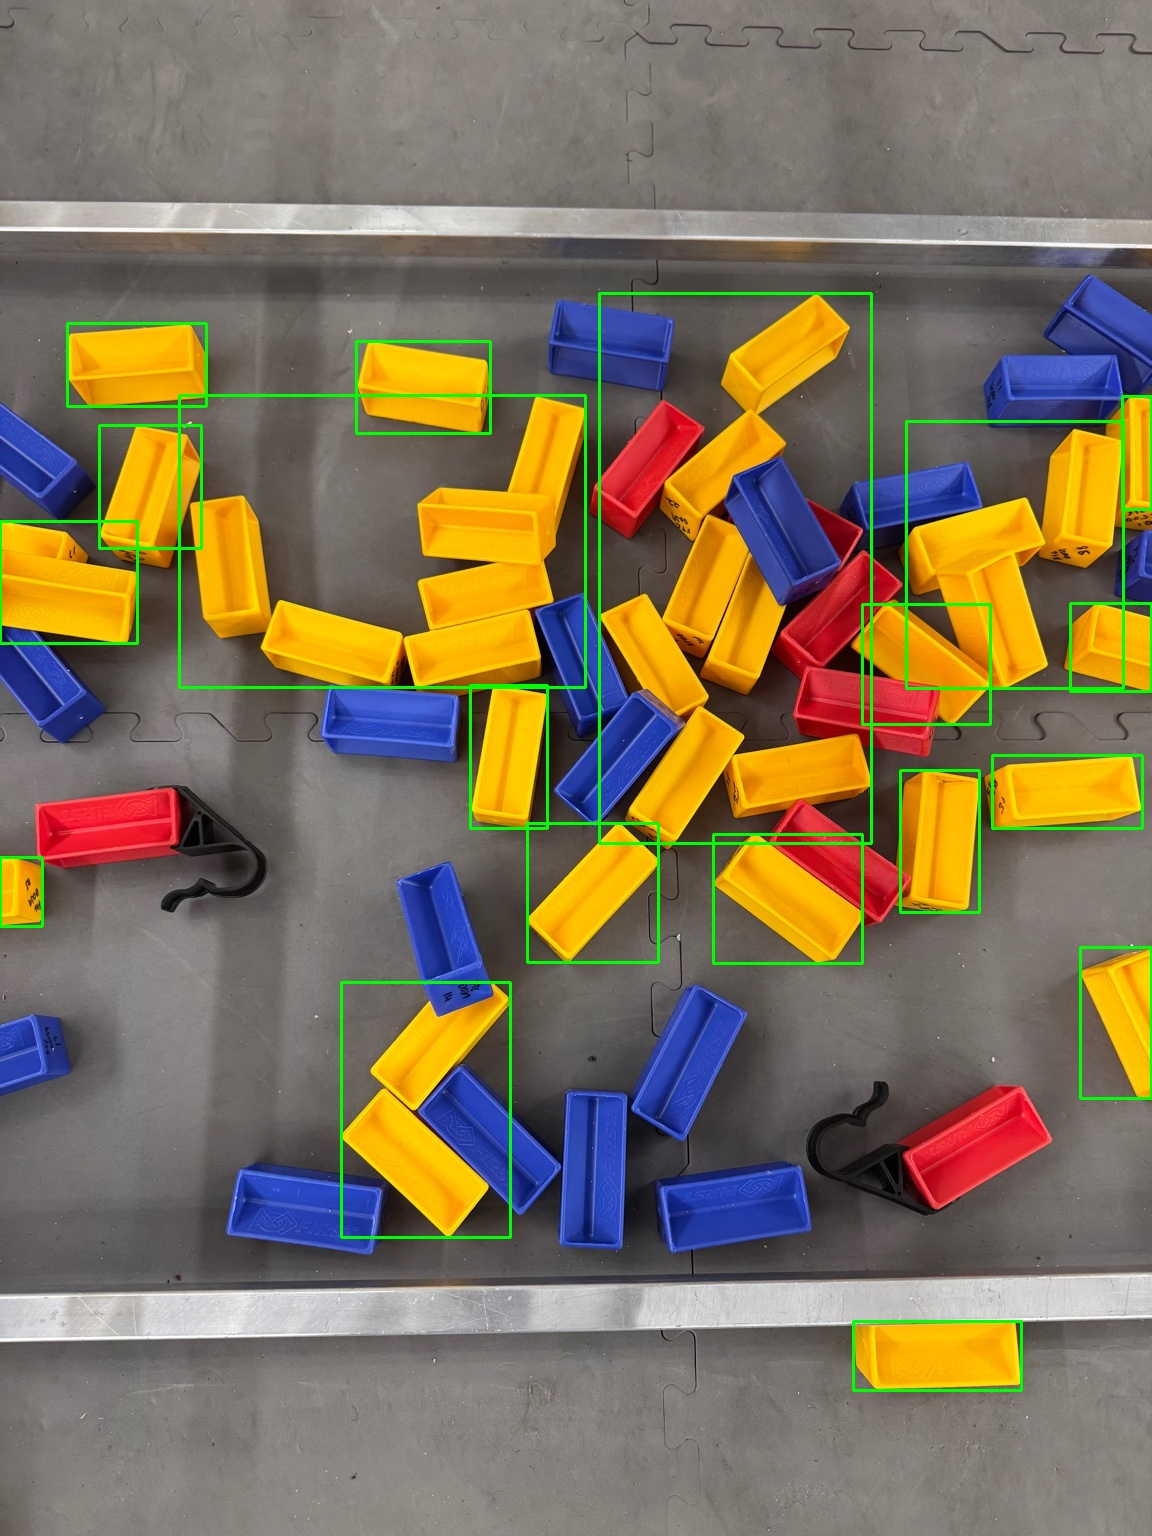
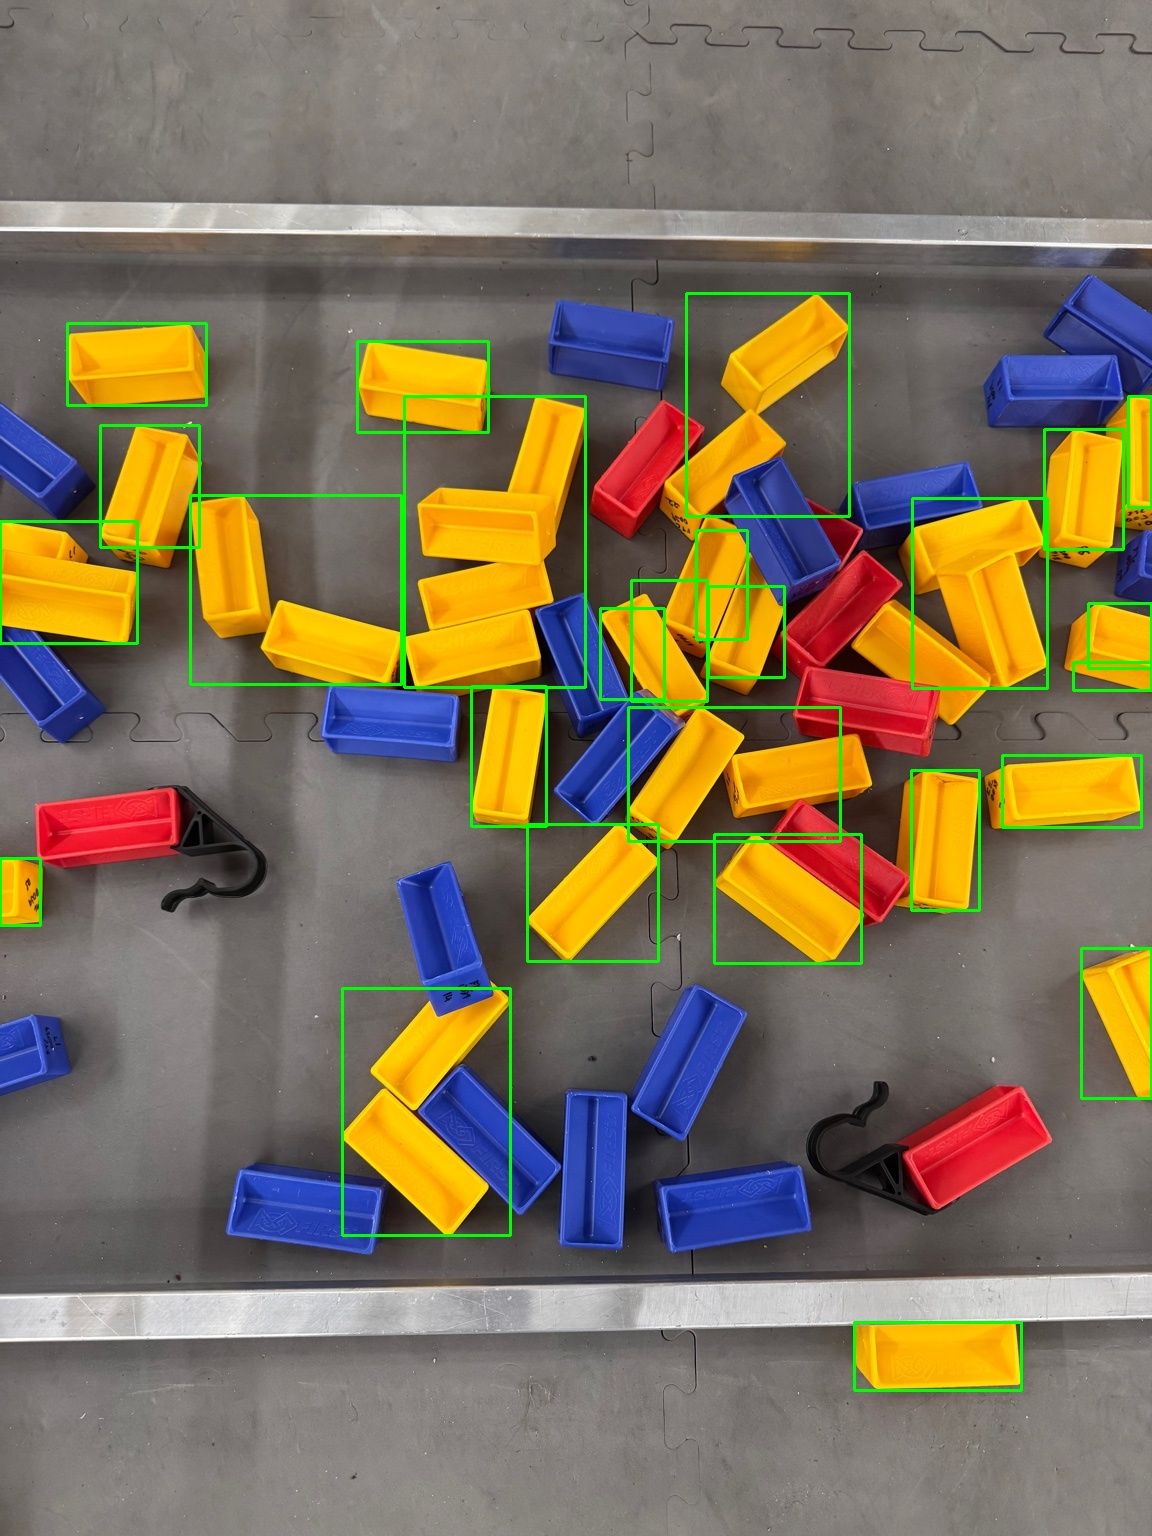
Block detection V2

diff --git a/demo/src/main/java/com/example/block/YellowBlockClusterDetector.java b/demo/src/main/java/com/example/block/YellowBlockClusterDetector.java
@@ -16,39 +16,35 @@ import org.opencv.imgproc.Imgproc;
 public class YellowBlockClusterDetector {
 
     // Constants for yellow color range in HSV
-    private static final Scalar LOWER_YELLOW = new Scalar(20, 100, 100); // Adjust as needed
-    private static final Scalar UPPER_YELLOW = new Scalar(30, 255, 255); // Adjust as needed
+    private static final Scalar LOWER_YELLOW = new Scalar(20, 100, 100);
+    private static final Scalar UPPER_YELLOW = new Scalar(30, 255, 255);
 
-    // Minimum area threshold for filtering small contours
     private static final double MIN_CLUSTER_AREA = 500.0;
     private static final double MIN_BLOCK_AREA = 100.0;
 
     /**
-     * Method to detect yellow blocks in clusters from an image.
+     * Detect yellow blocks in clusters from an image.
      *
-     * @param imagePath Path to the input image.
+     * @param imagePath  Path to the input image.
      * @param outputPath Path to save the annotated output image.
      */
     public void detectYellowBlocks(String imagePath, String outputPath) {
-        // Load the input image
         Mat inputImage = Imgcodecs.imread(imagePath);
         if (inputImage.empty()) {
             throw new RuntimeException("Image could not be loaded.");
         }
 
-        // Convert the image to HSV color space
         Mat hsvImage = new Mat();
         Imgproc.cvtColor(inputImage, hsvImage, Imgproc.COLOR_BGR2HSV);
 
-        // Create a binary mask for yellow color
         Mat yellowMask = new Mat();
         Core.inRange(hsvImage, LOWER_YELLOW, UPPER_YELLOW, yellowMask);
 
-        // Apply morphological operations to clean up noise
+        // Improved morphological operations
         Mat kernel = Imgproc.getStructuringElement(Imgproc.MORPH_RECT, new Size(5, 5));
-        Imgproc.morphologyEx(yellowMask, yellowMask, Imgproc.MORPH_CLOSE, kernel);
+        Imgproc.erode(yellowMask, yellowMask, kernel);
+        Imgproc.dilate(yellowMask, yellowMask, kernel);
 
-        // Find contours to detect clusters
         List<MatOfPoint> contours = new ArrayList<>();
         Mat hierarchy = new Mat();
         Imgproc.findContours(yellowMask, contours, hierarchy, Imgproc.RETR_EXTERNAL, Imgproc.CHAIN_APPROX_SIMPLE);
@@ -58,54 +54,54 @@ public class YellowBlockClusterDetector {
             return;
         }
 
-        // Process each detected cluster
         for (MatOfPoint contour : contours) {
             double area = Imgproc.contourArea(contour);
-            if (area < MIN_CLUSTER_AREA) {
-                continue; // Skip small areas (likely noise)
-            }
+            if (area < MIN_CLUSTER_AREA) continue;
 
-            // Draw a bounding box around the detected cluster
             Rect clusterRect = Imgproc.boundingRect(contour);
             System.out.println("Detected yellow cluster at: " + clusterRect);
 
-            // Create a mask for the cluster
             Mat clusterMask = Mat.zeros(yellowMask.size(), CvType.CV_8UC1);
             Imgproc.drawContours(clusterMask, List.of(contour), -1, new Scalar(255), -1);
 
-            // Detect individual blocks within the cluster
-            detectIndividualBlocks(clusterMask, inputImage);
+            // Split clusters into blocks using refined criteria
+            splitClusterIntoBlocks(clusterMask, inputImage, clusterRect);
         }
 
-        // Save the output image with annotations
         Imgcodecs.imwrite(outputPath, inputImage);
         System.out.println("Annotated image saved at: " + outputPath);
     }
 
     /**
-     * Method to detect individual blocks within a cluster mask.
+     * Split large clusters into individual blocks.
      *
-     * @param clusterMask Mask of the cluster.
-     * @param outputImage Image on which to draw detected blocks.
+     * @param clusterMask Cluster mask.
+     * @param outputImage Output image.
+     * @param clusterRect Cluster bounding box.
      */
-    private void detectIndividualBlocks(Mat clusterMask, Mat outputImage) {
-        // Detect contours of individual blocks within the cluster
+    private void splitClusterIntoBlocks(Mat clusterMask, Mat outputImage, Rect clusterRect) {
+        Mat subRegionMask = clusterMask.submat(clusterRect);
+
         List<MatOfPoint> blockContours = new ArrayList<>();
         Mat hierarchy = new Mat();
-        Imgproc.findContours(clusterMask, blockContours, hierarchy, Imgproc.RETR_EXTERNAL, Imgproc.CHAIN_APPROX_SIMPLE);
+        Imgproc.findContours(subRegionMask, blockContours, hierarchy, Imgproc.RETR_EXTERNAL, Imgproc.CHAIN_APPROX_SIMPLE);
 
         for (MatOfPoint blockContour : blockContours) {
             double blockArea = Imgproc.contourArea(blockContour);
-            if (blockArea < MIN_BLOCK_AREA) {
-                continue; // Skip very small contours
-            }
+            if (blockArea < MIN_BLOCK_AREA) continue;
 
-            // Draw a bounding box around each detected block
             Rect blockRect = Imgproc.boundingRect(blockContour);
-            System.out.println("Detected individual yellow block at: " + blockRect);
+            System.out.println("Detected block at: " + blockRect);
 
-            // Draw the block rectangle on the output image
-            Imgproc.rectangle(outputImage, blockRect, new Scalar(0, 255, 0), 2); // Green bounding box
+            // Adjust coordinates relative to the original image
+            Rect absoluteBlockRect = new Rect(
+                    blockRect.x + clusterRect.x,
+                    blockRect.y + clusterRect.y,
+                    blockRect.width,
+                    blockRect.height
+            );
+
+            Imgproc.rectangle(outputImage, absoluteBlockRect, new Scalar(0, 255, 0), 2);
         }
     }
 }
